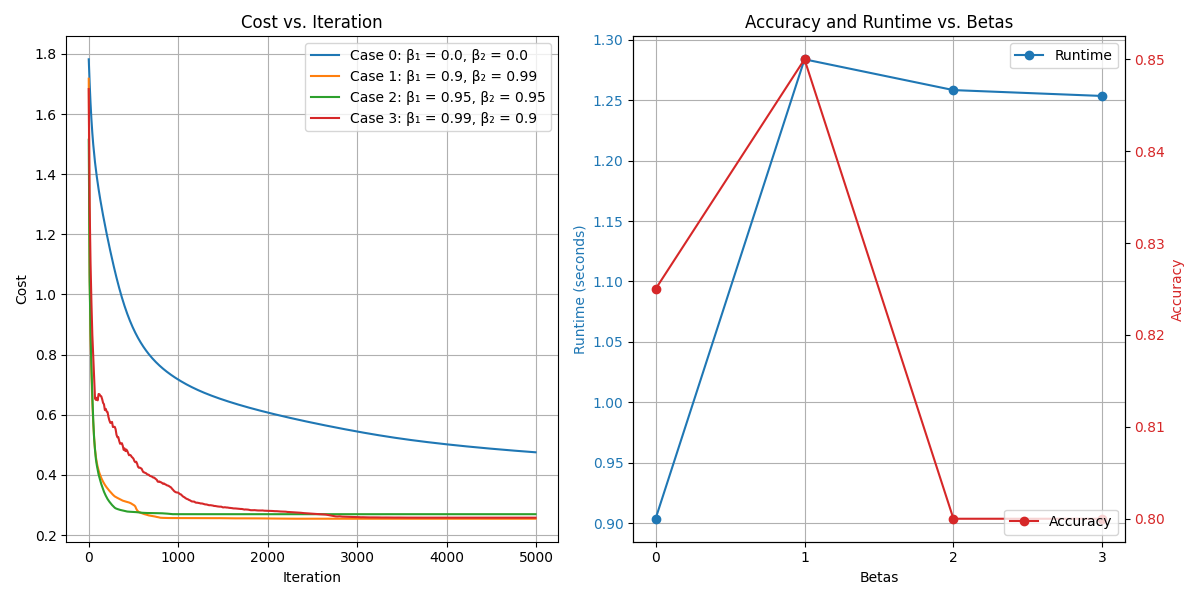
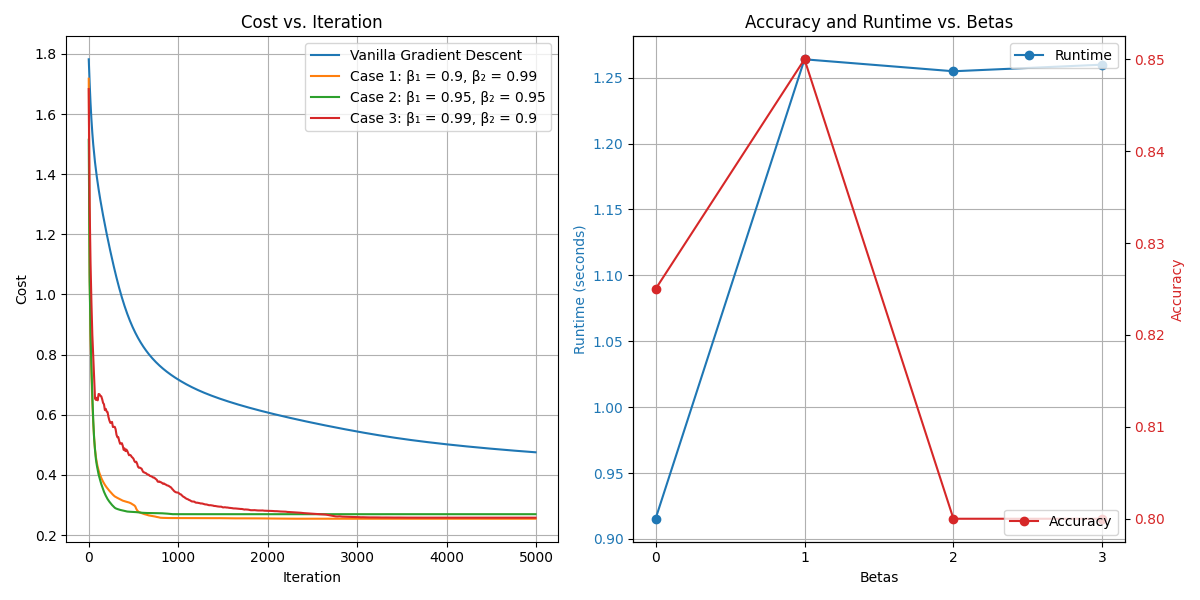
updated readme

diff --git a/README.md b/README.md
@@ -22,4 +22,4 @@ _17 Jun 24: Mini-batch gradient descent was added. Faster convergence rates were
 
 ## Adam Optimisation
 
-_18 Jun 24: Adam optimisation was added. All cases with Adam (non-zero betas) converged much faster to lower costs, and peak accuracy was achieved with the first Adam case (β₁ = 0.9, β₂ = 0.99). Of note, zero betas do not correspond to vanilla gradient descent, due to a scaling factor acting on the learning rate that is dependent on both epsilon (small value to prevent division by zero in Adam) and the gradient itself:_ $W=W-\alpha(\frac{1}{|dW| + \epsilon})dW$.
+_18 Jun 24: Adam optimisation was added. All Adam cases converged much faster to lower costs, and peak accuracy was achieved with the first Adam case (β₁ = 0.9, β₂ = 0.99). Of note, zero betas do not correspond to vanilla gradient descent, due to a scaling factor acting on the learning rate that is dependent on both epsilon (small value to prevent division by zero in Adam) and the gradient itself:_ $W=W-\alpha(\frac{1}{|dW| + \epsilon})dW$.
